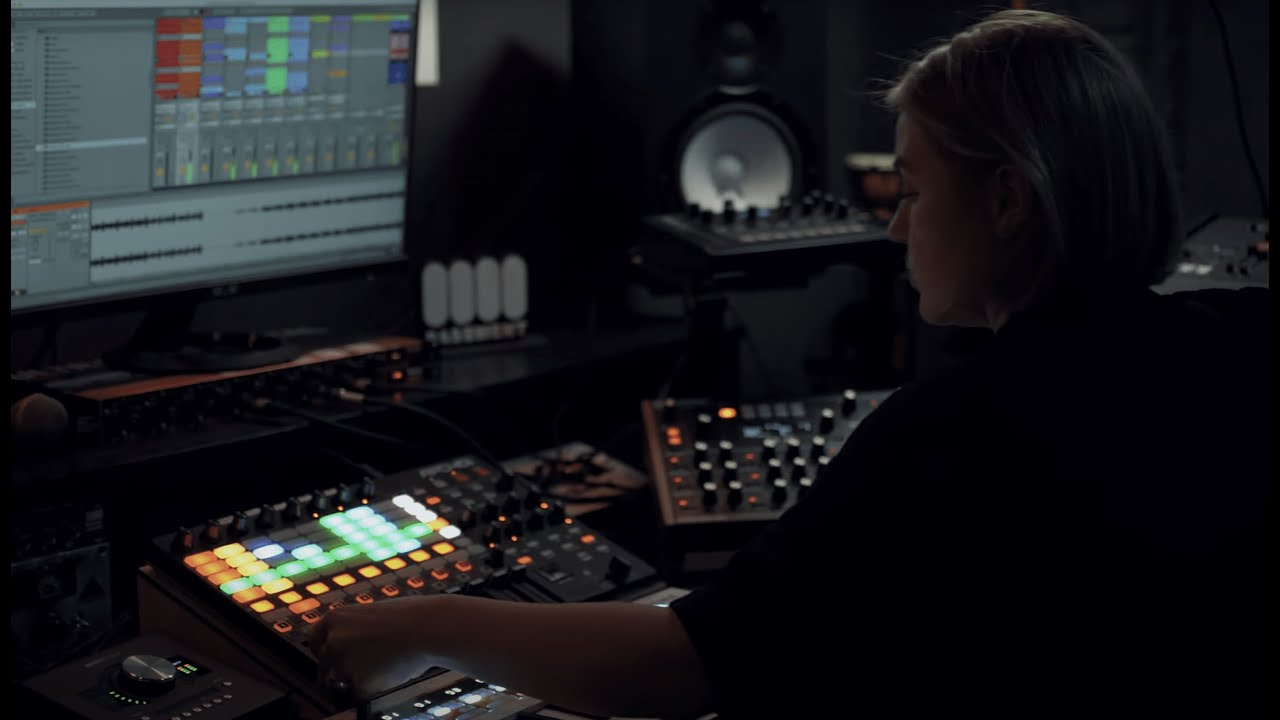
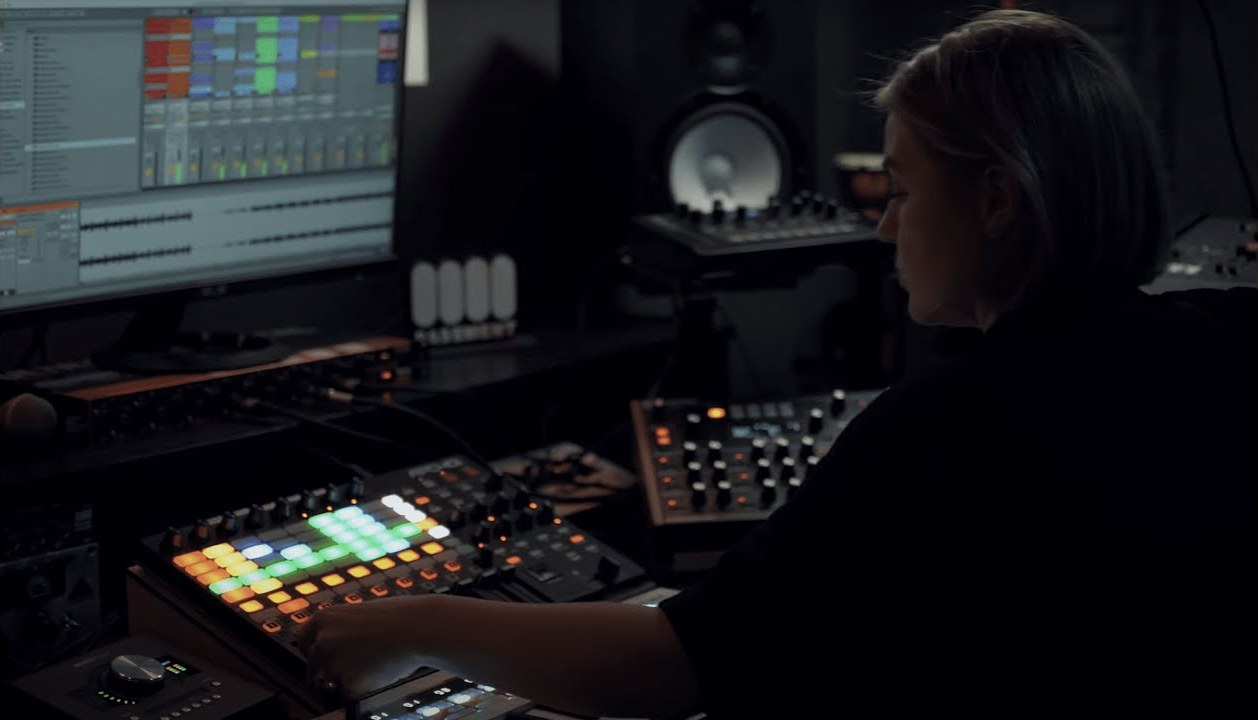
Превʼю відео без чорних смуг
Кадр із YouTube завжди 16:9, хоч би якої форми був фільм усередині: концерт
у 4:3 приїздив із чорними стінами з боків, широкий монтаж — зі смугами
згори й знизу. Плеєр теж 16:9 і заповнює себе через cover, тож смуги треба
було зрізати у самих файлах — вісім із пʼятдесяти трьох їх мали, тепер не
має жодного.

scripts/trim-poster-bars.py робить це повторюваним і навмисно обережний:
смугою вважається лише рядок, де кожен піксель майже чорний, тож темна
сцена не ріжеться; більше третини сторони не зрізається ніколи.

«Utility Bags by SHYLERO» — множина: проєкт про серію утилітарних сумок і
рюкзаків українського виробника, а не про одну модель. Опис це й каже.
Адреса сторінки лишається тією ж.

diff --git a/ua/work/shylero-utility-bag/index.html b/ua/work/shylero-utility-bag/index.html
@@ -3,8 +3,8 @@
 <head>
 <meta charset="utf-8">
 <meta name="viewport" content="width=device-width, initial-scale=1, viewport-fit=cover">
-<title>Utility Bag by SHYLERO — Кирило Русанівський</title>
-<meta name="description" content="Короткий продуктовий ролик для SHYLERO про Utility Bag.">
+<title>Utility Bags by SHYLERO — Кирило Русанівський</title>
+<meta name="description" content="Короткий продуктовий ролик для SHYLERO, українського виробника сумок, — про серію утилітарних сумок і рюкзаків, які робить компанія, зняту і змонтовану одним фільмом.">
 <meta name="author" content="Kyrylo Rusanivsky">
 <link rel="canonical" href="https://rusanivsky.com/ua/work/shylero-utility-bag/">
 <link rel="alternate" hreflang="en" href="https://rusanivsky.com/work/shylero-utility-bag/">
@@ -15,16 +15,16 @@
 <meta property="og:locale" content="uk_UA">
 <meta property="og:locale:alternate" content="en_US">
 <meta property="og:url" content="https://rusanivsky.com/ua/work/shylero-utility-bag/">
-<meta property="og:title" content="Utility Bag by SHYLERO — Кирило Русанівський">
-<meta property="og:description" content="Короткий продуктовий ролик для SHYLERO про Utility Bag.">
+<meta property="og:title" content="Utility Bags by SHYLERO — Кирило Русанівський">
+<meta property="og:description" content="Короткий продуктовий ролик для SHYLERO, українського виробника сумок, — про серію утилітарних сумок і рюкзаків, які робить компанія, зняту і змонтовану одним фільмом.">
 <meta property="og:image" content="https://rusanivsky.com/media/video/posters/utility-bag-poster.jpg">
 <meta property="og:image:type" content="image/jpeg">
 <meta property="og:image:width" content="1200">
 <meta property="og:image:height" content="630">
 <meta property="og:image:alt" content="Кирило Русанівський — відеомонтажер, фотограф і графічний дизайнер, Київ">
 <meta name="twitter:card" content="summary_large_image">
-<meta name="twitter:title" content="Utility Bag by SHYLERO — Кирило Русанівський">
-<meta name="twitter:description" content="Короткий продуктовий ролик для SHYLERO про Utility Bag.">
+<meta name="twitter:title" content="Utility Bags by SHYLERO — Кирило Русанівський">
+<meta name="twitter:description" content="Короткий продуктовий ролик для SHYLERO, українського виробника сумок, — про серію утилітарних сумок і рюкзаків, які робить компанія, зняту і змонтовану одним фільмом.">
 <meta name="twitter:image" content="https://rusanivsky.com/media/video/posters/utility-bag-poster.jpg">
 <meta name="theme-color" content="#f4f1e9">
 <link rel="icon" href="/favicon.ico?v=07ab25da" sizes="32x32">
@@ -92,8 +92,8 @@ setTimeout(function(){r.className=r.className.replace(/ splash-o(n|ff)/g,'');},1
 <main class="project g12" id="main">
   <div class="project-head col-8">
     <p class="eyebrow">Відео</p>
-    <h1 class="project-title t-display">Utility Bag by SHYLERO</h1>
-    <p class="project-dek t-lead col-7">Короткий продуктовий ролик для SHYLERO про Utility Bag.</p>
+    <h1 class="project-title t-display">Utility Bags by SHYLERO</h1>
+    <p class="project-dek t-lead col-7">Короткий продуктовий ролик для SHYLERO, українського виробника сумок, — про серію утилітарних сумок і рюкзаків, які робить компанія, зняту і змонтовану одним фільмом.</p>
     <dl class="facts">
       <div><dt>Клієнт</dt><dd>SHYLERO</dd></div>
       <div><dt>креативний спеціаліст</dt><dd>Камера, Монтаж</dd></div>
@@ -106,9 +106,9 @@ setTimeout(function(){r.className=r.className.replace(/ splash-o(n|ff)/g,'');},1
 <div class="span-6">
       <div class="player">
   <img src="/media/video/posters/utility-bag-poster.jpg" alt="" width="1280" height="720" fetchpriority="high" loading="eager" decoding="async">
-  <button type="button" class="player-btn" data-platform="yt" data-video-id="EfoTXc5AVkk" aria-label="Відтворити — Utility Bag by SHYLERO"></button>
+  <button type="button" class="player-btn" data-platform="yt" data-video-id="EfoTXc5AVkk" aria-label="Відтворити — Utility Bags by SHYLERO"></button>
 </div>
-      <p class="vid-title">Utility Bag by SHYLERO</p>
+      <p class="vid-title">Utility Bags by SHYLERO</p>
     </div>
   </div>
 

diff --git a/work/shylero-utility-bag/index.html b/work/shylero-utility-bag/index.html
@@ -3,8 +3,8 @@
 <head>
 <meta charset="utf-8">
 <meta name="viewport" content="width=device-width, initial-scale=1, viewport-fit=cover">
-<title>Utility Bag by SHYLERO — Kyrylo Rusanivsky</title>
-<meta name="description" content="A short product film for SHYLERO about its Utility Bag.">
+<title>Utility Bags by SHYLERO — Kyrylo Rusanivsky</title>
+<meta name="description" content="A short product film for SHYLERO, a Ukrainian maker of bags — the series of utility bags and backpacks the company builds, filmed and cut as one piece.">
 <meta name="author" content="Kyrylo Rusanivsky">
 <link rel="canonical" href="https://rusanivsky.com/work/shylero-utility-bag/">
 <link rel="alternate" hreflang="en" href="https://rusanivsky.com/work/shylero-utility-bag/">
@@ -15,16 +15,16 @@
 <meta property="og:locale" content="en_US">
 <meta property="og:locale:alternate" content="uk_UA">
 <meta property="og:url" content="https://rusanivsky.com/work/shylero-utility-bag/">
-<meta property="og:title" content="Utility Bag by SHYLERO — Kyrylo Rusanivsky">
-<meta property="og:description" content="A short product film for SHYLERO about its Utility Bag.">
+<meta property="og:title" content="Utility Bags by SHYLERO — Kyrylo Rusanivsky">
+<meta property="og:description" content="A short product film for SHYLERO, a Ukrainian maker of bags — the series of utility bags and backpacks the company builds, filmed and cut as one piece.">
 <meta property="og:image" content="https://rusanivsky.com/media/video/posters/utility-bag-poster.jpg">
 <meta property="og:image:type" content="image/jpeg">
 <meta property="og:image:width" content="1200">
 <meta property="og:image:height" content="630">
 <meta property="og:image:alt" content="Kyrylo Rusanivsky — video editor, photographer and graphic designer, Kyiv">
 <meta name="twitter:card" content="summary_large_image">
-<meta name="twitter:title" content="Utility Bag by SHYLERO — Kyrylo Rusanivsky">
-<meta name="twitter:description" content="A short product film for SHYLERO about its Utility Bag.">
+<meta name="twitter:title" content="Utility Bags by SHYLERO — Kyrylo Rusanivsky">
+<meta name="twitter:description" content="A short product film for SHYLERO, a Ukrainian maker of bags — the series of utility bags and backpacks the company builds, filmed and cut as one piece.">
 <meta name="twitter:image" content="https://rusanivsky.com/media/video/posters/utility-bag-poster.jpg">
 <meta name="theme-color" content="#f4f1e9">
 <link rel="icon" href="/favicon.ico?v=07ab25da" sizes="32x32">
@@ -91,8 +91,8 @@ setTimeout(function(){r.className=r.className.replace(/ splash-o(n|ff)/g,'');},1
 <main class="project g12" id="main">
   <div class="project-head col-8">
     <p class="eyebrow">Video</p>
-    <h1 class="project-title t-display">Utility Bag by SHYLERO</h1>
-    <p class="project-dek t-lead col-7">A short product film for SHYLERO about its Utility Bag.</p>
+    <h1 class="project-title t-display">Utility Bags by SHYLERO</h1>
+    <p class="project-dek t-lead col-7">A short product film for SHYLERO, a Ukrainian maker of bags — the series of utility bags and backpacks the company builds, filmed and cut as one piece.</p>
     <dl class="facts">
       <div><dt>Client</dt><dd>SHYLERO</dd></div>
       <div><dt>Creative specialist</dt><dd>Camera, Editing</dd></div>
@@ -105,9 +105,9 @@ setTimeout(function(){r.className=r.className.replace(/ splash-o(n|ff)/g,'');},1
 <div class="span-6">
       <div class="player">
   <img src="/media/video/posters/utility-bag-poster.jpg" alt="" width="1280" height="720" fetchpriority="high" loading="eager" decoding="async">
-  <button type="button" class="player-btn" data-platform="yt" data-video-id="EfoTXc5AVkk" aria-label="Play — Utility Bag by SHYLERO"></button>
+  <button type="button" class="player-btn" data-platform="yt" data-video-id="EfoTXc5AVkk" aria-label="Play — Utility Bags by SHYLERO"></button>
 </div>
-      <p class="vid-title">Utility Bag by SHYLERO</p>
+      <p class="vid-title">Utility Bags by SHYLERO</p>
     </div>
   </div>
 

diff --git a/ua/video/index.html b/ua/video/index.html
@@ -118,12 +118,12 @@ setTimeout(function(){r.className=r.className.replace(/ splash-o(n|ff)/g,'');},1
   <span class="work-meta">Камера, Монтаж · Tsyronian Agency</span>
 </a>
 <a class="work" href="/ua/work/shylero-utility-bag/" style="--span:6;--ar:1280/720">
-  <span class="work-cover"><img src="/media/video/posters/utility-bag-poster.jpg" alt="Utility Bag by SHYLERO" width="1280" height="720" loading="lazy" decoding="async"></span>
-  <span class="work-title">Utility Bag by SHYLERO</span>
+  <span class="work-cover"><img src="/media/video/posters/utility-bag-poster.jpg" alt="Utility Bags by SHYLERO" width="1280" height="720" loading="lazy" decoding="async"></span>
+  <span class="work-title">Utility Bags by SHYLERO</span>
   <span class="work-meta">Камера, Монтаж · SHYLERO</span>
 </a>
-<a class="work" href="/ua/work/ua-trance-family/" style="--span:6;--ar:1280/720">
-  <span class="work-cover"><img src="/media/video/thumbs/yt-BP80RxWWHa4.jpg" alt="UA Trance Family" width="1280" height="720" loading="lazy" decoding="async"></span>
+<a class="work" href="/ua/work/ua-trance-family/" style="--span:6;--ar:1242/606">
+  <span class="work-cover"><img src="/media/video/thumbs/yt-BP80RxWWHa4.jpg" alt="UA Trance Family" width="1242" height="606" loading="lazy" decoding="async"></span>
   <span class="work-title">UA Trance Family</span>
   <span class="work-meta">Камера, Монтаж · UATF · 2013–2019</span>
 </a>
@@ -160,7 +160,7 @@ setTimeout(function(){r.className=r.className.replace(/ splash-o(n|ff)/g,'');},1
       </div>
 <div class="work">
         <div class="player">
-  <img src="/media/video/thumbs/yt-7ojQd4XWNOI.jpg" alt="" width="1280" height="720" loading="lazy" decoding="async">
+  <img src="/media/video/thumbs/yt-7ojQd4XWNOI.jpg" alt="" width="1258" height="720" loading="lazy" decoding="async">
   <button type="button" class="player-btn" data-platform="yt" data-video-id="7ojQd4XWNOI" aria-label="Відтворити — 8Kays — Sun Will Come Out EP // Live"></button>
 </div>
         <p class="vid-title">8Kays — Sun Will Come Out EP // Live</p>
@@ -184,7 +184,7 @@ setTimeout(function(){r.className=r.className.replace(/ splash-o(n|ff)/g,'');},1
       </div>
 <div class="work">
         <div class="player">
-  <img src="/media/video/thumbs/yt-M9JZIY9FnP0.jpg" alt="" width="1280" height="720" loading="lazy" decoding="async">
+  <img src="/media/video/thumbs/yt-M9JZIY9FnP0.jpg" alt="" width="1280" height="600" loading="lazy" decoding="async">
   <button type="button" class="player-btn" data-platform="yt" data-video-id="M9JZIY9FnP0" aria-label="Відтворити — LIVE PROMO 2020 | IN WHITE COVER BAND"></button>
 </div>
         <p class="vid-title">LIVE PROMO 2020 | IN WHITE COVER BAND</p>
@@ -192,7 +192,7 @@ setTimeout(function(){r.className=r.className.replace(/ splash-o(n|ff)/g,'');},1
       </div>
 <div class="work">
         <div class="player">
-  <img src="/media/video/thumbs/yt-xohvEn-YaP4.jpg" alt="" width="640" height="480" loading="lazy" decoding="async">
+  <img src="/media/video/thumbs/yt-xohvEn-YaP4.jpg" alt="" width="640" height="426" loading="lazy" decoding="async">
   <button type="button" class="player-btn" data-platform="yt" data-video-id="xohvEn-YaP4" aria-label="Відтворити — FIREWORK COVER BAND — DEMO"></button>
 </div>
         <p class="vid-title">FIREWORK COVER BAND — DEMO</p>
@@ -200,7 +200,7 @@ setTimeout(function(){r.className=r.className.replace(/ splash-o(n|ff)/g,'');},1
       </div>
 <div class="work">
         <div class="player">
-  <img src="/media/video/thumbs/yt-GAhVfJsmKyM.jpg" alt="" width="1280" height="720" loading="lazy" decoding="async">
+  <img src="/media/video/thumbs/yt-GAhVfJsmKyM.jpg" alt="" width="1080" height="720" loading="lazy" decoding="async">
   <button type="button" class="player-btn" data-platform="yt" data-video-id="GAhVfJsmKyM" aria-label="Відтворити — APLAY"></button>
 </div>
         <p class="vid-title">APLAY</p>

diff --git a/video/index.html b/video/index.html
@@ -117,12 +117,12 @@ setTimeout(function(){r.className=r.className.replace(/ splash-o(n|ff)/g,'');},1
   <span class="work-meta">Camera, Editing · Tsyronian Agency</span>
 </a>
 <a class="work" href="/work/shylero-utility-bag/" style="--span:6;--ar:1280/720">
-  <span class="work-cover"><img src="/media/video/posters/utility-bag-poster.jpg" alt="Utility Bag by SHYLERO" width="1280" height="720" loading="lazy" decoding="async"></span>
-  <span class="work-title">Utility Bag by SHYLERO</span>
+  <span class="work-cover"><img src="/media/video/posters/utility-bag-poster.jpg" alt="Utility Bags by SHYLERO" width="1280" height="720" loading="lazy" decoding="async"></span>
+  <span class="work-title">Utility Bags by SHYLERO</span>
   <span class="work-meta">Camera, Editing · SHYLERO</span>
 </a>
-<a class="work" href="/work/ua-trance-family/" style="--span:6;--ar:1280/720">
-  <span class="work-cover"><img src="/media/video/thumbs/yt-BP80RxWWHa4.jpg" alt="UA Trance Family" width="1280" height="720" loading="lazy" decoding="async"></span>
+<a class="work" href="/work/ua-trance-family/" style="--span:6;--ar:1242/606">
+  <span class="work-cover"><img src="/media/video/thumbs/yt-BP80RxWWHa4.jpg" alt="UA Trance Family" width="1242" height="606" loading="lazy" decoding="async"></span>
   <span class="work-title">UA Trance Family</span>
   <span class="work-meta">Camera, Editing · UATF · 2013–2019</span>
 </a>
@@ -159,7 +159,7 @@ setTimeout(function(){r.className=r.className.replace(/ splash-o(n|ff)/g,'');},1
       </div>
 <div class="work">
         <div class="player">
-  <img src="/media/video/thumbs/yt-7ojQd4XWNOI.jpg" alt="" width="1280" height="720" loading="lazy" decoding="async">
+  <img src="/media/video/thumbs/yt-7ojQd4XWNOI.jpg" alt="" width="1258" height="720" loading="lazy" decoding="async">
   <button type="button" class="player-btn" data-platform="yt" data-video-id="7ojQd4XWNOI" aria-label="Play — 8Kays — Sun Will Come Out EP // Live"></button>
 </div>
         <p class="vid-title">8Kays — Sun Will Come Out EP // Live</p>
@@ -183,7 +183,7 @@ setTimeout(function(){r.className=r.className.replace(/ splash-o(n|ff)/g,'');},1
       </div>
 <div class="work">
         <div class="player">
-  <img src="/media/video/thumbs/yt-M9JZIY9FnP0.jpg" alt="" width="1280" height="720" loading="lazy" decoding="async">
+  <img src="/media/video/thumbs/yt-M9JZIY9FnP0.jpg" alt="" width="1280" height="600" loading="lazy" decoding="async">
   <button type="button" class="player-btn" data-platform="yt" data-video-id="M9JZIY9FnP0" aria-label="Play — LIVE PROMO 2020 | IN WHITE COVER BAND"></button>
 </div>
         <p class="vid-title">LIVE PROMO 2020 | IN WHITE COVER BAND</p>
@@ -191,7 +191,7 @@ setTimeout(function(){r.className=r.className.replace(/ splash-o(n|ff)/g,'');},1
       </div>
 <div class="work">
         <div class="player">
-  <img src="/media/video/thumbs/yt-xohvEn-YaP4.jpg" alt="" width="640" height="480" loading="lazy" decoding="async">
+  <img src="/media/video/thumbs/yt-xohvEn-YaP4.jpg" alt="" width="640" height="426" loading="lazy" decoding="async">
   <button type="button" class="player-btn" data-platform="yt" data-video-id="xohvEn-YaP4" aria-label="Play — FIREWORK COVER BAND — DEMO"></button>
 </div>
         <p class="vid-title">FIREWORK COVER BAND — DEMO</p>
@@ -199,7 +199,7 @@ setTimeout(function(){r.className=r.className.replace(/ splash-o(n|ff)/g,'');},1
       </div>
 <div class="work">
         <div class="player">
-  <img src="/media/video/thumbs/yt-GAhVfJsmKyM.jpg" alt="" width="1280" height="720" loading="lazy" decoding="async">
+  <img src="/media/video/thumbs/yt-GAhVfJsmKyM.jpg" alt="" width="1080" height="720" loading="lazy" decoding="async">
   <button type="button" class="player-btn" data-platform="yt" data-video-id="GAhVfJsmKyM" aria-label="Play — APLAY"></button>
 </div>
         <p class="vid-title">APLAY</p>

diff --git a/ua/work/ua-trance-family/index.html b/ua/work/ua-trance-family/index.html
@@ -105,7 +105,7 @@ setTimeout(function(){r.className=r.className.replace(/ splash-o(n|ff)/g,'');},1
   <div class="seq col-full g12" style="padding-inline:0">
 <div class="span-6">
       <div class="player">
-  <img src="/media/video/thumbs/yt-BP80RxWWHa4.jpg" alt="" width="1280" height="720" fetchpriority="high" loading="eager" decoding="async">
+  <img src="/media/video/thumbs/yt-BP80RxWWHa4.jpg" alt="" width="1242" height="606" fetchpriority="high" loading="eager" decoding="async">
   <button type="button" class="player-btn" data-platform="yt" data-video-id="BP80RxWWHa4" aria-label="Відтворити — ATB – neXt World Tour. Aftermovie (Kyiv, 02.06.2017)"></button>
 </div>
       <p class="vid-title">ATB – neXt World Tour. Aftermovie (Kyiv, 02.06.2017)</p>
@@ -126,14 +126,14 @@ setTimeout(function(){r.className=r.className.replace(/ splash-o(n|ff)/g,'');},1
     </div>
 <div class="span-6">
       <div class="player">
-  <img src="/media/video/thumbs/yt-tQj7MmXobBE.jpg" alt="" width="1280" height="720" loading="lazy" decoding="async">
+  <img src="/media/video/thumbs/yt-tQj7MmXobBE.jpg" alt="" width="1280" height="644" loading="lazy" decoding="async">
   <button type="button" class="player-btn" data-platform="yt" data-video-id="tQj7MmXobBE" aria-label="Відтворити — Club Styles Fest – Trance Edition Vol. 2 (UA Trance Family Aftermovie)"></button>
 </div>
       <p class="vid-title">Club Styles Fest – Trance Edition Vol. 2 (UA Trance Family Aftermovie)</p>
     </div>
 <div class="span-6">
       <div class="player">
-  <img src="/media/video/thumbs/yt-V59QT_ofjtk.jpg" alt="" width="1280" height="720" loading="lazy" decoding="async">
+  <img src="/media/video/thumbs/yt-V59QT_ofjtk.jpg" alt="" width="1272" height="720" loading="lazy" decoding="async">
   <button type="button" class="player-btn" data-platform="yt" data-video-id="V59QT_ofjtk" aria-label="Відтворити — Solarstone @ UA Trance Family Party (Kyiv, 22.06.2018)"></button>
 </div>
       <p class="vid-title">Solarstone @ UA Trance Family Party (Kyiv, 22.06.2018)</p>

diff --git a/work/ua-trance-family/index.html b/work/ua-trance-family/index.html
@@ -104,7 +104,7 @@ setTimeout(function(){r.className=r.className.replace(/ splash-o(n|ff)/g,'');},1
   <div class="seq col-full g12" style="padding-inline:0">
 <div class="span-6">
       <div class="player">
-  <img src="/media/video/thumbs/yt-BP80RxWWHa4.jpg" alt="" width="1280" height="720" fetchpriority="high" loading="eager" decoding="async">
+  <img src="/media/video/thumbs/yt-BP80RxWWHa4.jpg" alt="" width="1242" height="606" fetchpriority="high" loading="eager" decoding="async">
   <button type="button" class="player-btn" data-platform="yt" data-video-id="BP80RxWWHa4" aria-label="Play — ATB – neXt World Tour. Aftermovie (Kyiv, 02.06.2017)"></button>
 </div>
       <p class="vid-title">ATB – neXt World Tour. Aftermovie (Kyiv, 02.06.2017)</p>
@@ -125,14 +125,14 @@ setTimeout(function(){r.className=r.className.replace(/ splash-o(n|ff)/g,'');},1
     </div>
 <div class="span-6">
       <div class="player">
-  <img src="/media/video/thumbs/yt-tQj7MmXobBE.jpg" alt="" width="1280" height="720" loading="lazy" decoding="async">
+  <img src="/media/video/thumbs/yt-tQj7MmXobBE.jpg" alt="" width="1280" height="644" loading="lazy" decoding="async">
   <button type="button" class="player-btn" data-platform="yt" data-video-id="tQj7MmXobBE" aria-label="Play — Club Styles Fest – Trance Edition Vol. 2 (UA Trance Family Aftermovie)"></button>
 </div>
       <p class="vid-title">Club Styles Fest – Trance Edition Vol. 2 (UA Trance Family Aftermovie)</p>
     </div>
 <div class="span-6">
       <div class="player">
-  <img src="/media/video/thumbs/yt-V59QT_ofjtk.jpg" alt="" width="1280" height="720" loading="lazy" decoding="async">
+  <img src="/media/video/thumbs/yt-V59QT_ofjtk.jpg" alt="" width="1272" height="720" loading="lazy" decoding="async">
   <button type="button" class="player-btn" data-platform="yt" data-video-id="V59QT_ofjtk" aria-label="Play — Solarstone @ UA Trance Family Party (Kyiv, 22.06.2018)"></button>
 </div>
       <p class="vid-title">Solarstone @ UA Trance Family Party (Kyiv, 22.06.2018)</p>

diff --git a/ua/work/culture-and-art/index.html b/ua/work/culture-and-art/index.html
@@ -248,11 +248,11 @@ setTimeout(function(){r.className=r.className.replace(/ splash-o(n|ff)/g,'');},1
   <section class="section col-full">
     <h2 class="section-label">Далі</h2>
     <div class="works works-pair"><a class="work" href="/ua/work/shylero-utility-bag/">
-  <span class="work-cover"><img src="/media/video/posters/utility-bag-poster.jpg" alt="Utility Bag by SHYLERO" width="1280" height="720" loading="lazy" decoding="async"></span>
-  <span class="work-title">Utility Bag by SHYLERO</span>
+  <span class="work-cover"><img src="/media/video/posters/utility-bag-poster.jpg" alt="Utility Bags by SHYLERO" width="1280" height="720" loading="lazy" decoding="async"></span>
+  <span class="work-title">Utility Bags by SHYLERO</span>
   <span class="work-meta">Камера, Монтаж · SHYLERO</span>
 </a><a class="work" href="/ua/work/ua-trance-family/">
-  <span class="work-cover"><img src="/media/video/thumbs/yt-BP80RxWWHa4.jpg" alt="UA Trance Family" width="1280" height="720" loading="lazy" decoding="async"></span>
+  <span class="work-cover"><img src="/media/video/thumbs/yt-BP80RxWWHa4.jpg" alt="UA Trance Family" width="1242" height="606" loading="lazy" decoding="async"></span>
   <span class="work-title">UA Trance Family</span>
   <span class="work-meta">Камера, Монтаж · UATF · 2013–2019</span>
 </a></div>

diff --git a/work/culture-and-art/index.html b/work/culture-and-art/index.html
@@ -247,11 +247,11 @@ setTimeout(function(){r.className=r.className.replace(/ splash-o(n|ff)/g,'');},1
   <section class="section col-full">
     <h2 class="section-label">Next</h2>
     <div class="works works-pair"><a class="work" href="/work/shylero-utility-bag/">
-  <span class="work-cover"><img src="/media/video/posters/utility-bag-poster.jpg" alt="Utility Bag by SHYLERO" width="1280" height="720" loading="lazy" decoding="async"></span>
-  <span class="work-title">Utility Bag by SHYLERO</span>
+  <span class="work-cover"><img src="/media/video/posters/utility-bag-poster.jpg" alt="Utility Bags by SHYLERO" width="1280" height="720" loading="lazy" decoding="async"></span>
+  <span class="work-title">Utility Bags by SHYLERO</span>
   <span class="work-meta">Camera, Editing · SHYLERO</span>
 </a><a class="work" href="/work/ua-trance-family/">
-  <span class="work-cover"><img src="/media/video/thumbs/yt-BP80RxWWHa4.jpg" alt="UA Trance Family" width="1280" height="720" loading="lazy" decoding="async"></span>
+  <span class="work-cover"><img src="/media/video/thumbs/yt-BP80RxWWHa4.jpg" alt="UA Trance Family" width="1242" height="606" loading="lazy" decoding="async"></span>
   <span class="work-title">UA Trance Family</span>
   <span class="work-meta">Camera, Editing · UATF · 2013–2019</span>
 </a></div>

diff --git a/ua/work/yd-interior-studio/index.html b/ua/work/yd-interior-studio/index.html
@@ -182,8 +182,8 @@ setTimeout(function(){r.className=r.className.replace(/ splash-o(n|ff)/g,'');},1
   <span class="work-title">Reels</span>
   <span class="work-meta">Камера, Монтаж · Tsyronian Agency</span>
 </a><a class="work" href="/ua/work/shylero-utility-bag/">
-  <span class="work-cover"><img src="/media/video/posters/utility-bag-poster.jpg" alt="Utility Bag by SHYLERO" width="1280" height="720" loading="lazy" decoding="async"></span>
-  <span class="work-title">Utility Bag by SHYLERO</span>
+  <span class="work-cover"><img src="/media/video/posters/utility-bag-poster.jpg" alt="Utility Bags by SHYLERO" width="1280" height="720" loading="lazy" decoding="async"></span>
+  <span class="work-title">Utility Bags by SHYLERO</span>
   <span class="work-meta">Камера, Монтаж · SHYLERO</span>
 </a></div>
   </section>

diff --git a/work/yd-interior-studio/index.html b/work/yd-interior-studio/index.html
@@ -181,8 +181,8 @@ setTimeout(function(){r.className=r.className.replace(/ splash-o(n|ff)/g,'');},1
   <span class="work-title">Reels</span>
   <span class="work-meta">Camera, Editing · Tsyronian Agency</span>
 </a><a class="work" href="/work/shylero-utility-bag/">
-  <span class="work-cover"><img src="/media/video/posters/utility-bag-poster.jpg" alt="Utility Bag by SHYLERO" width="1280" height="720" loading="lazy" decoding="async"></span>
-  <span class="work-title">Utility Bag by SHYLERO</span>
+  <span class="work-cover"><img src="/media/video/posters/utility-bag-poster.jpg" alt="Utility Bags by SHYLERO" width="1280" height="720" loading="lazy" decoding="async"></span>
+  <span class="work-title">Utility Bags by SHYLERO</span>
   <span class="work-meta">Camera, Editing · SHYLERO</span>
 </a></div>
   </section>

diff --git a/ua/work/reels/index.html b/ua/work/reels/index.html
@@ -136,7 +136,7 @@ setTimeout(function(){r.className=r.className.replace(/ splash-o(n|ff)/g,'');},1
   <section class="section col-full">
     <h2 class="section-label">Далі</h2>
     <div class="works works-pair"><a class="work" href="/ua/work/ua-trance-family/">
-  <span class="work-cover"><img src="/media/video/thumbs/yt-BP80RxWWHa4.jpg" alt="UA Trance Family" width="1280" height="720" loading="lazy" decoding="async"></span>
+  <span class="work-cover"><img src="/media/video/thumbs/yt-BP80RxWWHa4.jpg" alt="UA Trance Family" width="1242" height="606" loading="lazy" decoding="async"></span>
   <span class="work-title">UA Trance Family</span>
   <span class="work-meta">Камера, Монтаж · UATF · 2013–2019</span>
 </a><a class="work" href="/ua/work/word-and-music/">

diff --git a/work/reels/index.html b/work/reels/index.html
@@ -135,7 +135,7 @@ setTimeout(function(){r.className=r.className.replace(/ splash-o(n|ff)/g,'');},1
   <section class="section col-full">
     <h2 class="section-label">Next</h2>
     <div class="works works-pair"><a class="work" href="/work/ua-trance-family/">
-  <span class="work-cover"><img src="/media/video/thumbs/yt-BP80RxWWHa4.jpg" alt="UA Trance Family" width="1280" height="720" loading="lazy" decoding="async"></span>
+  <span class="work-cover"><img src="/media/video/thumbs/yt-BP80RxWWHa4.jpg" alt="UA Trance Family" width="1242" height="606" loading="lazy" decoding="async"></span>
   <span class="work-title">UA Trance Family</span>
   <span class="work-meta">Camera, Editing · UATF · 2013–2019</span>
 </a><a class="work" href="/work/word-and-music/">
